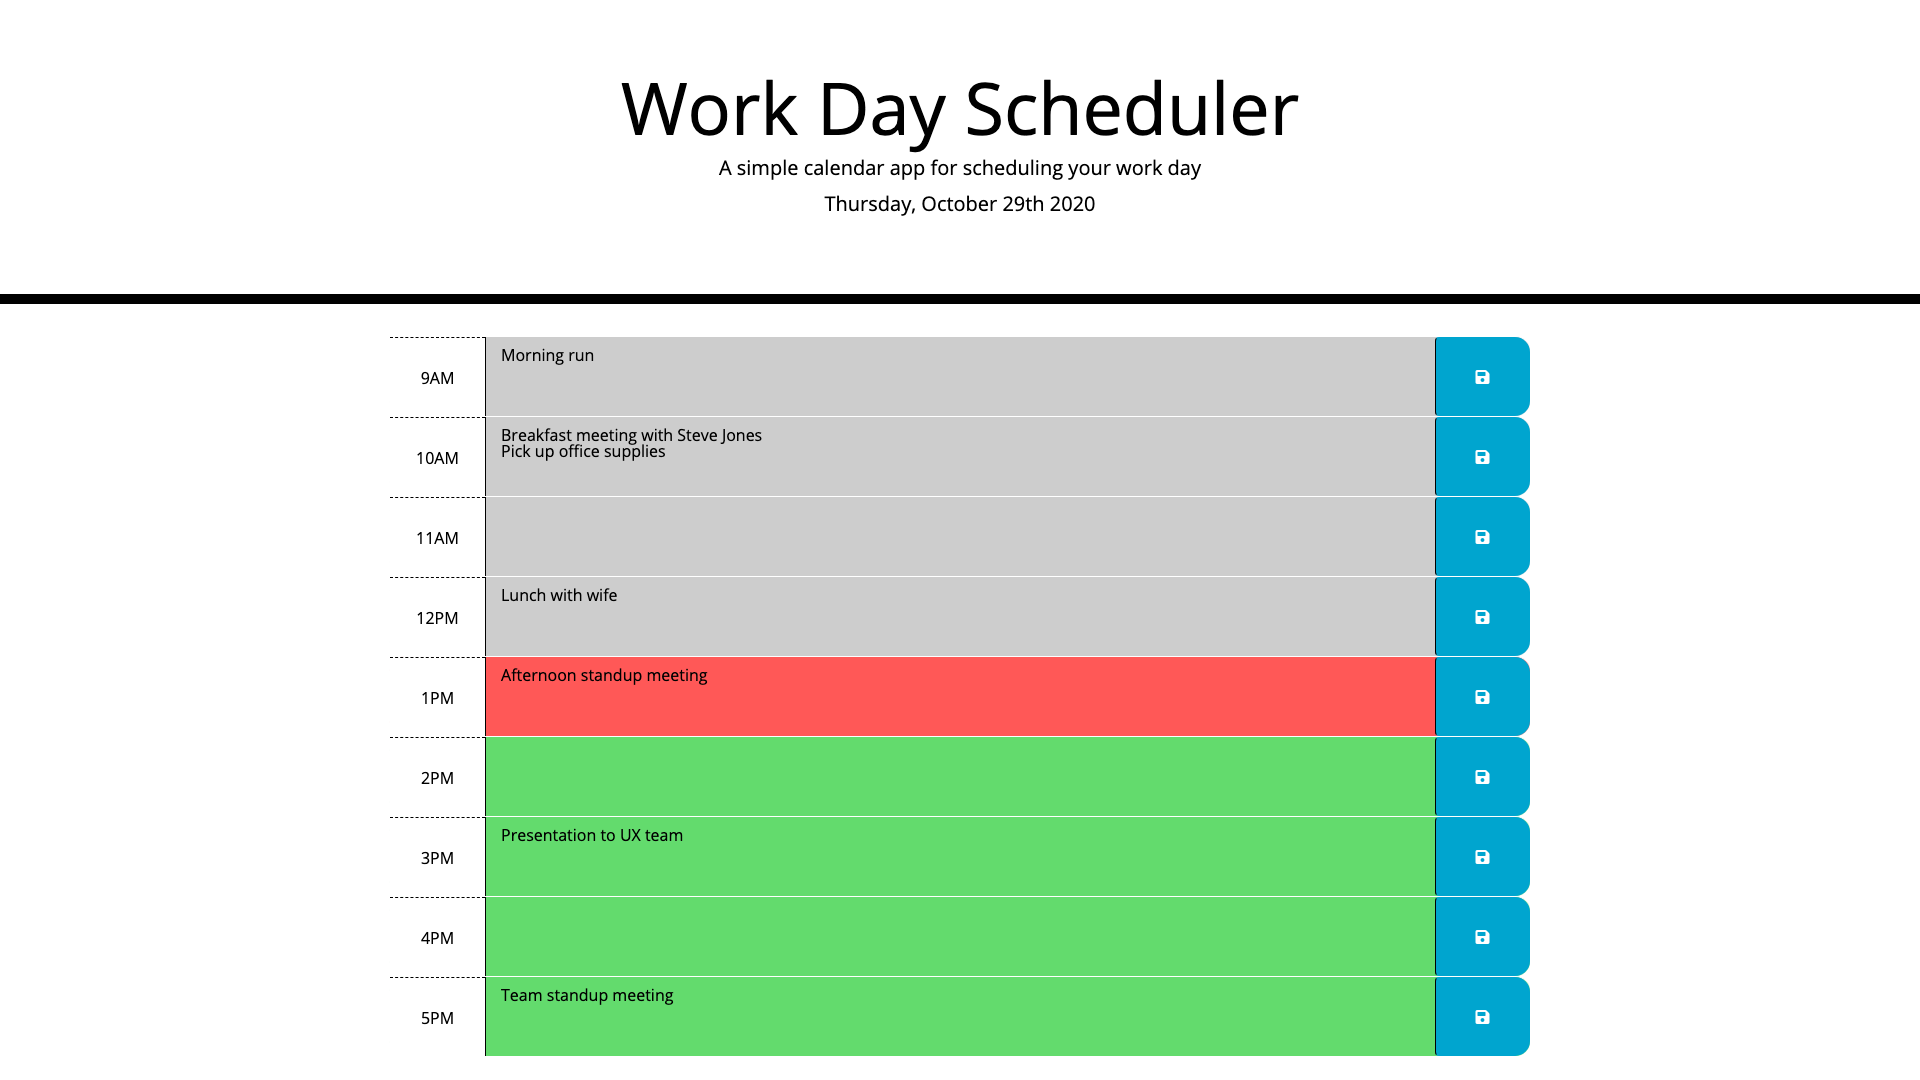
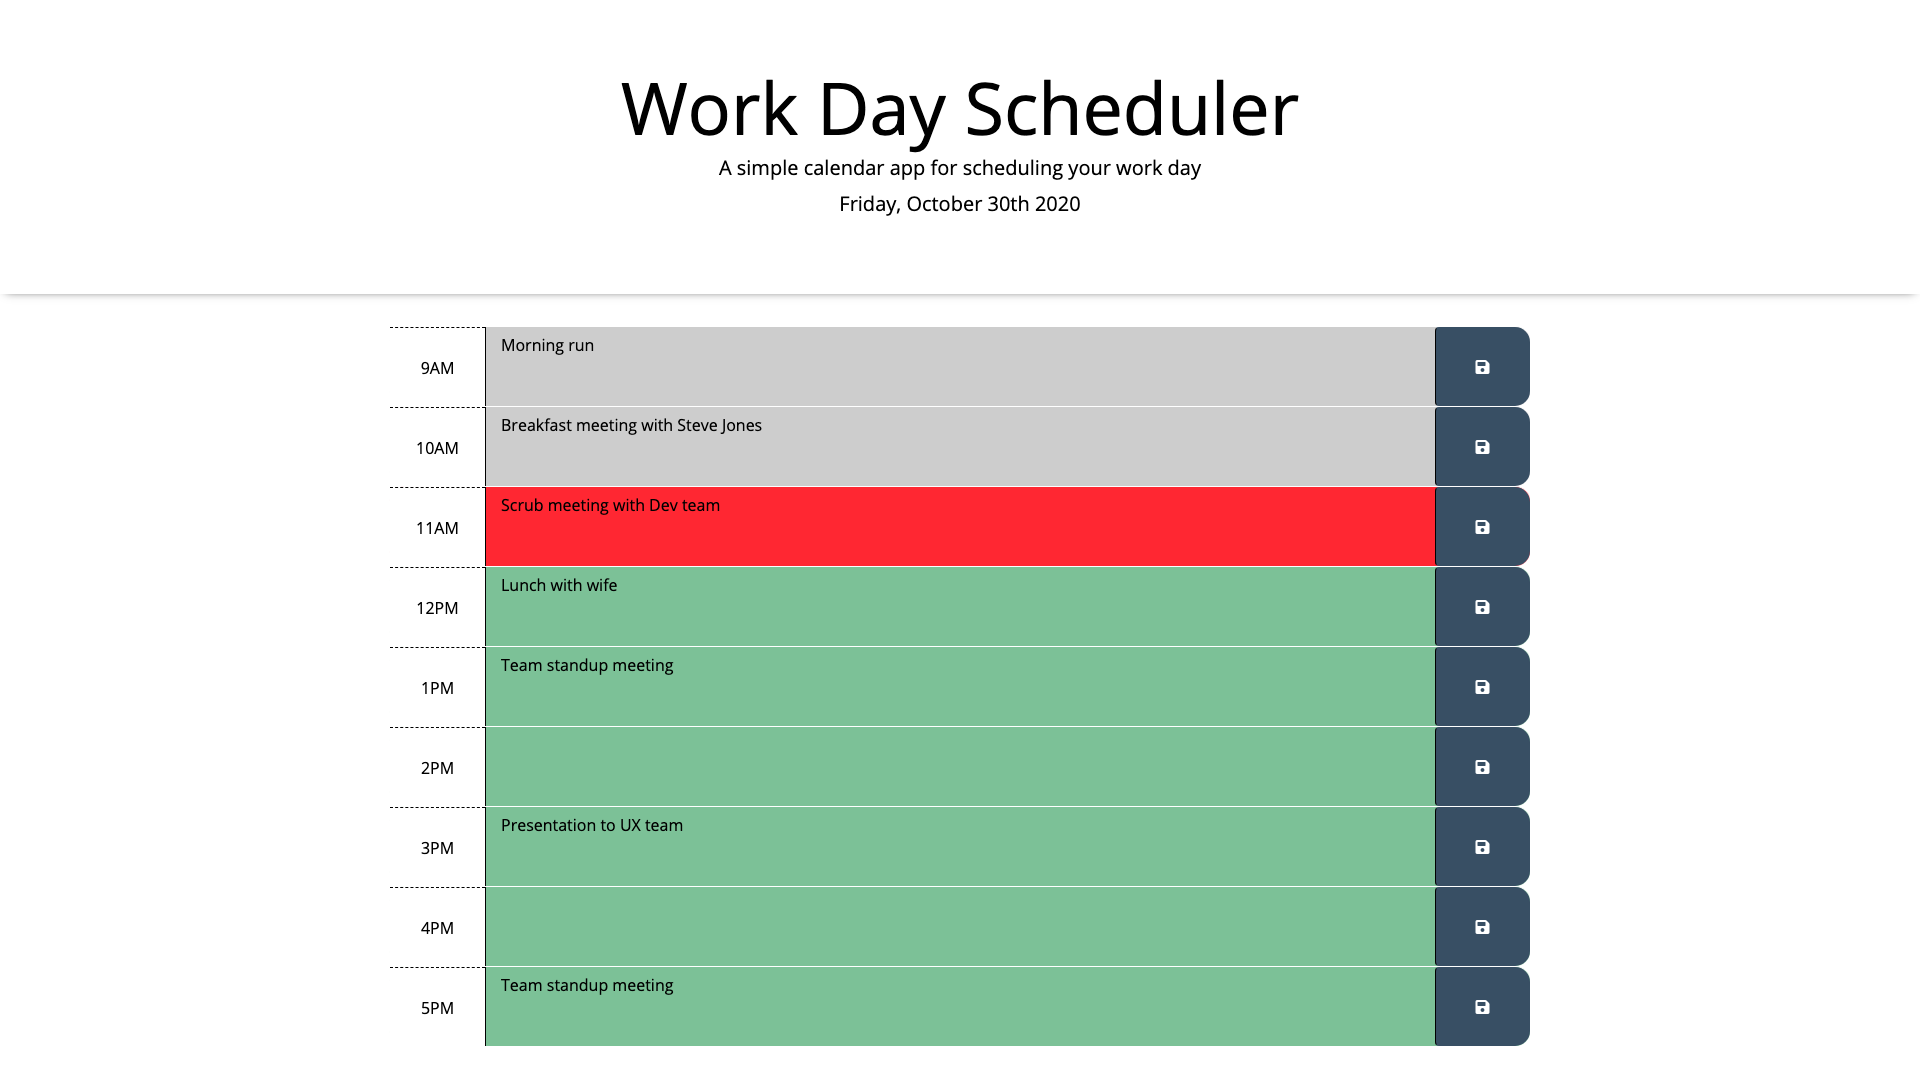
updated JS and screenshot

diff --git a/style.css b/style.css
@@ -15,10 +15,11 @@ textarea{
 
 .jumbotron {
   text-align: center;
-  background-color: transparent;
+  background-color: white;
   color: black;
   border-radius: 0;
-  border-bottom: 10px solid black;
+  /* border-bottom: 10px solid black; */
+  box-shadow: 0 2px 10px -6px black;
 }
 
 .description{
@@ -48,12 +49,12 @@ textarea{
 }
 
 .present {
-  background-color: #ff6961;
+  background-color: #FF3C38;
   color: white;
 }
 
 .future {
-  background-color: #77dd77;
+  background-color: #8CC7A1;
   color: white;
 }
 
@@ -61,7 +62,7 @@ textarea{
   border-left: 1px solid black;
   border-top-right-radius: 15px;
   border-bottom-right-radius: 15px;
-  background-color: #06AED5;
+  background-color: #42596F;
   color: white;
 }
 
@@ -69,3 +70,4 @@ textarea{
   font-size: 20px;
   transition: all .3s ease-in-out;
 }
+

diff --git a/script.js b/script.js
@@ -6,16 +6,18 @@ var currentDay = $("#currentDay");
 var currentDate = moment().format("dddd, MMMM Do YYYY");
 var currentHour = moment().format("H");
 
+// add current date to jumbotron
 currentDay.text(currentDate);
 
-// listen for save button clicks
+// get event description and time on button click
 $(".saveBtn").on("click", function () {
-    // get nearby values
-    var value = $(this).siblings(".description").val();
-    var time = $(this).parent().attr("id");
+
+    var eventDes = $(this).siblings(".description").val().trim();
+    var eventTime = $(this).parent().attr("id");
+    // console.log(this);
 
     // save in localStorage
-    localStorage.setItem(time, value);
+    localStorage.setItem(eventTime, eventDes);
 });
 
 // style timeBlocks according to past, present or future times

diff --git a/index.html b/index.html
@@ -15,7 +15,7 @@
 </head>
 
 <body>
-  <header class="jumbotron">
+  <header class="jumbotron sticky-top">
     <h1 class="display-3">Work Day Scheduler</h1>
     <p class="lead">A simple calendar app for scheduling your work day</p>
     <p id="currentDay" class="lead"></p>
